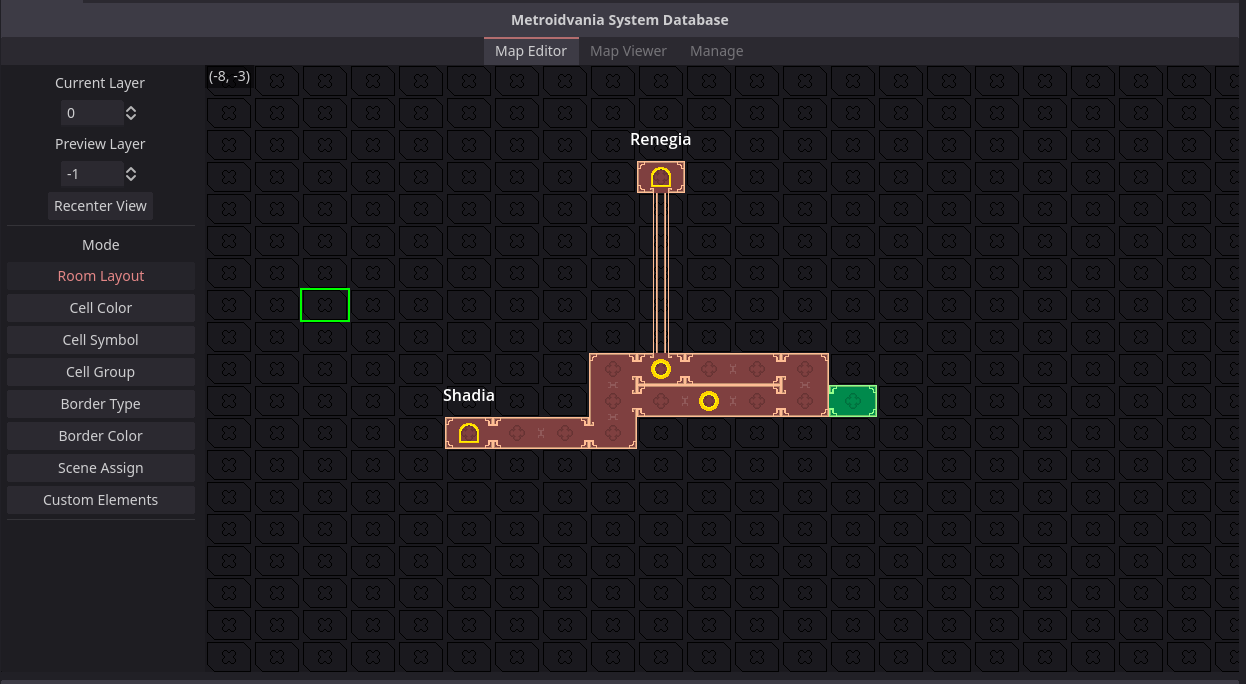
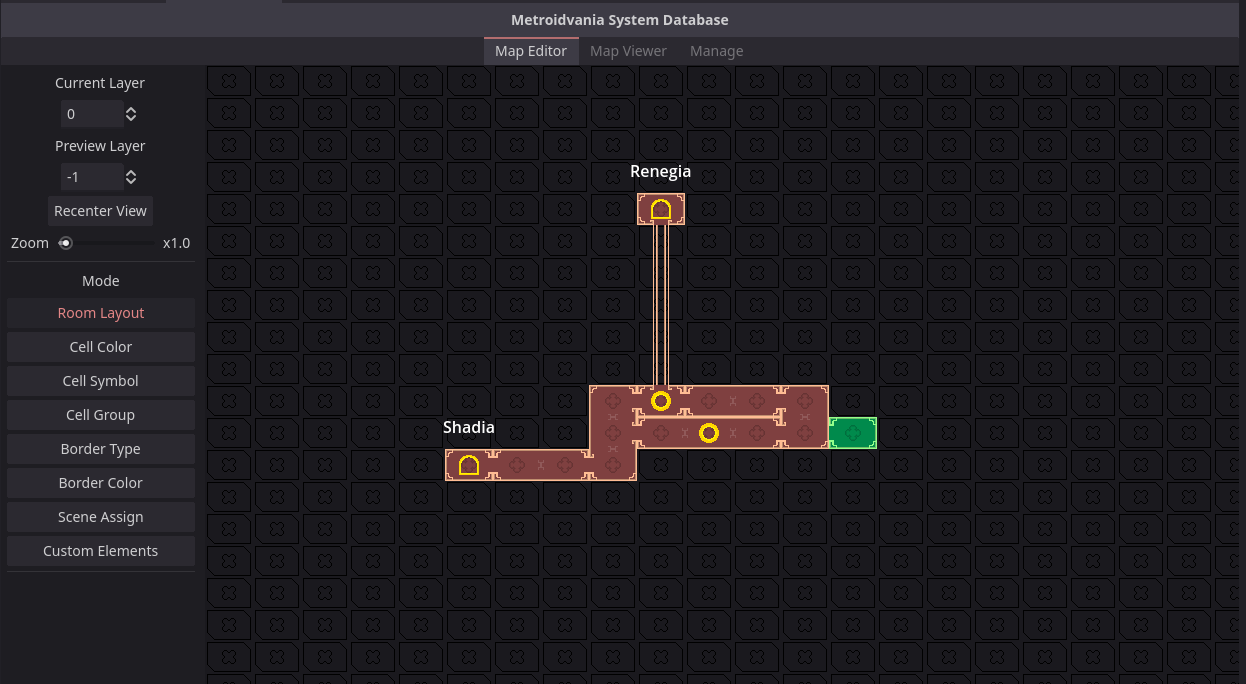
Added zoom feature

diff --git a/README.md b/README.md
@@ -136,6 +136,10 @@ It's important to note that the map is divided into layers. Using them is option
 
 You can change current layer either on the side-bar or using Q/E keys (physical). You can pan the map view using Middle Mouse Button; the Recenter View button on the sidebar moves you to (0, 0) in case you get lost (the canvas is infinite). In the top-left corner of the map view you can see the coordinates of the hovered cell.
 
+There is also a zoom feature. It's very basic and simply scales the map view, but it's useful if you have high display resolution and find the map too small.
+
+![](Media/EditorZoom.gif)
+
 #### Room Layout mode
 
 This is the most basic mode and allows you to draw rooms. The rooms are drawn using rectangle tool. Use Left Mouse Button to draw a room and Right Mouse Button to erase. If you draw a rectangle that overlaps another room, they will be merged.
